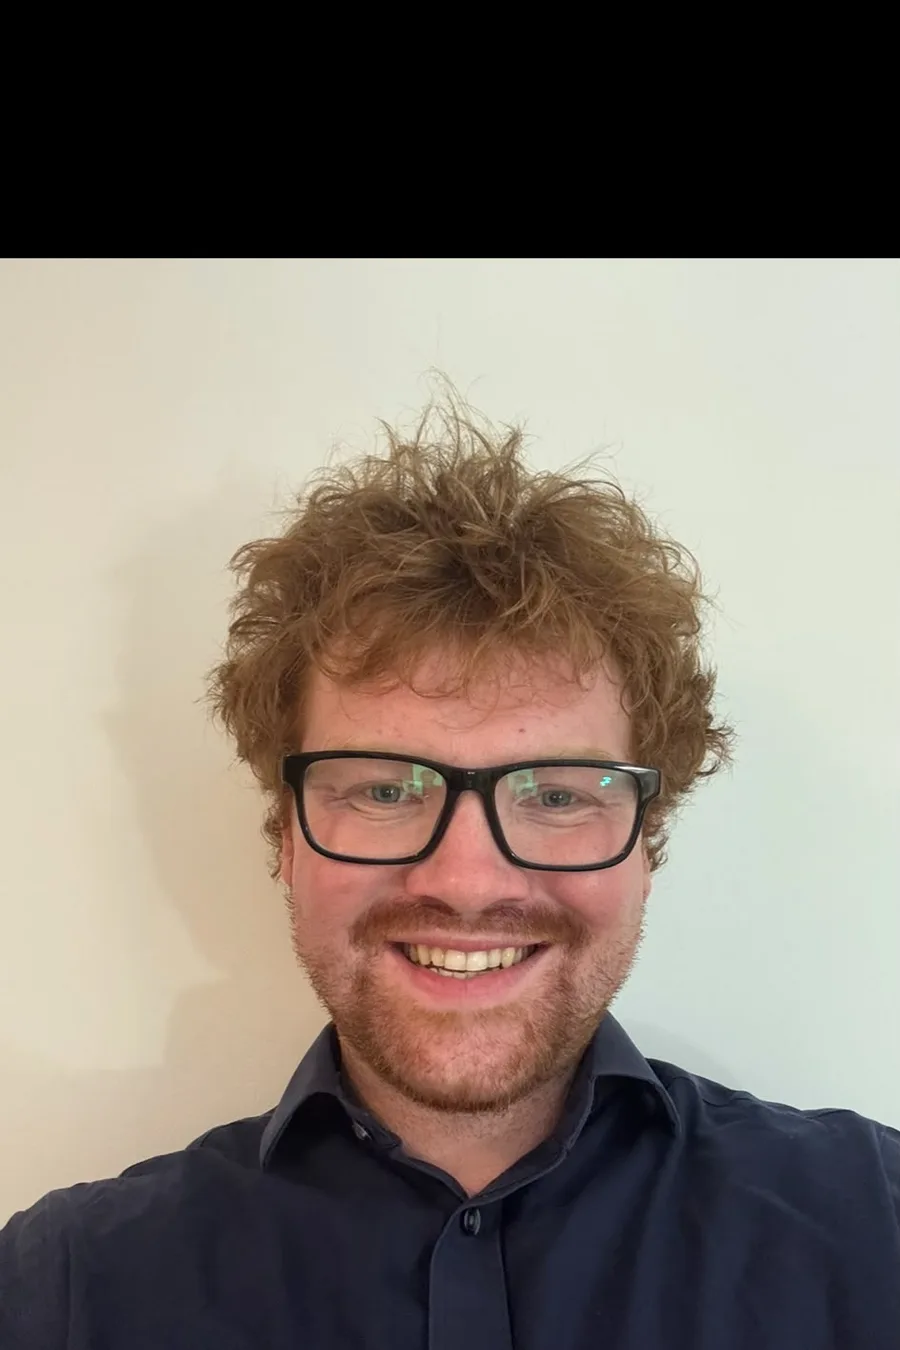
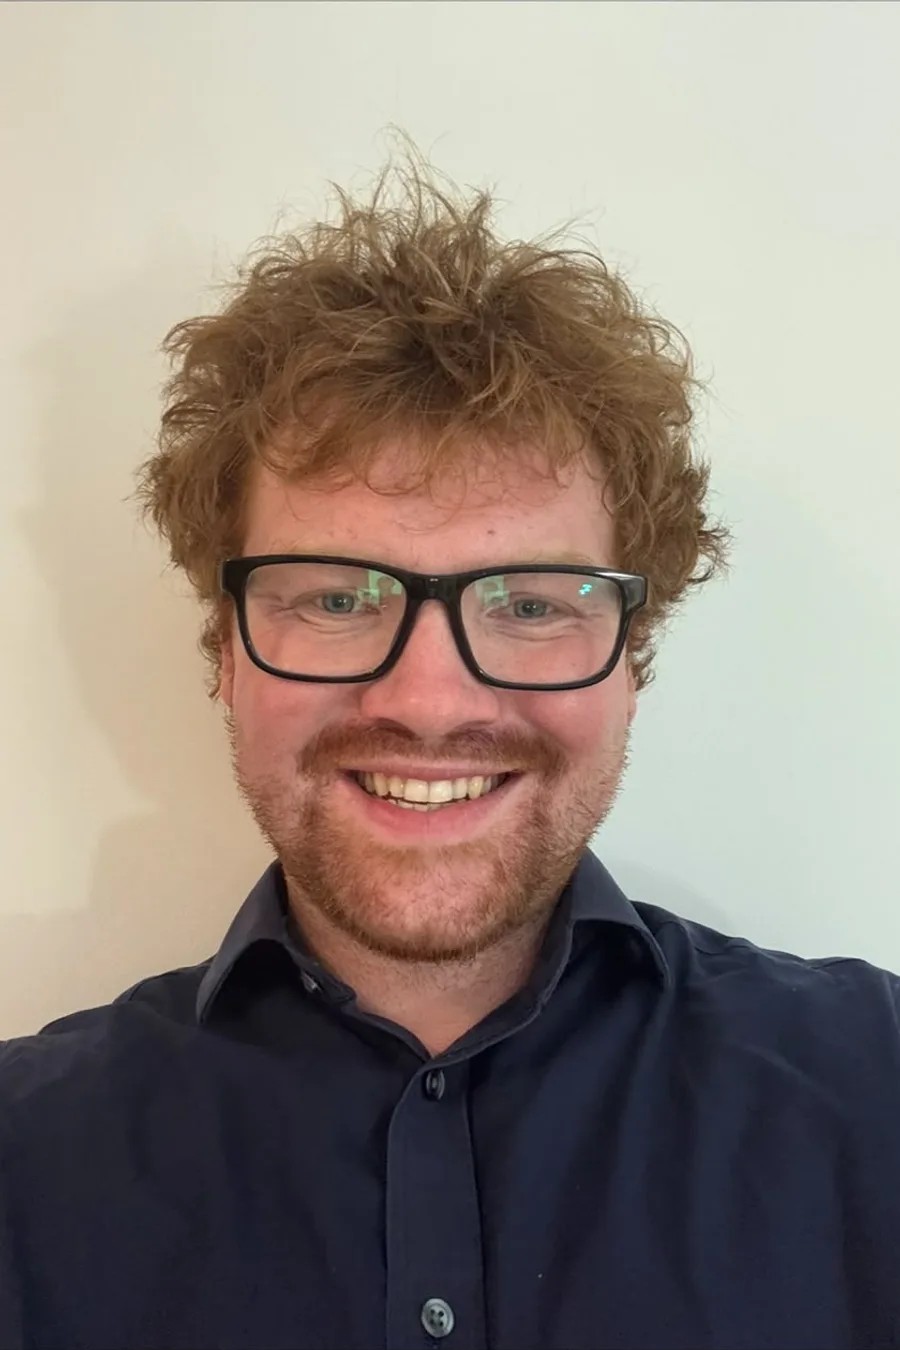
Recenter Charlie and Iain teacher portraits.
Strip Charlie's letterbox bars and tighten Iain's crop so both faces sit nearer the frame center.

diff --git a/project/STATUS.md b/project/STATUS.md
@@ -1,5 +1,9 @@
 # Project status
 
+## Recentered Charlie and Iain portraits — 3 November 2026
+
+Re-cropped `charlie-teacher.webp` (removed letterbox bars; face centered) and `iain-teacher.webp` (tighter right-side crop to center face). Sources unchanged in `intake/owner-drop/photos/`.
+
 ## Owner copy, portraits, and policy PDFs — 3 November 2026
 
 Applied owner paste from `intake/owner-voice/2026-11-03-copy-portraits-policies.md` and refined `project/VOICE.md`.
